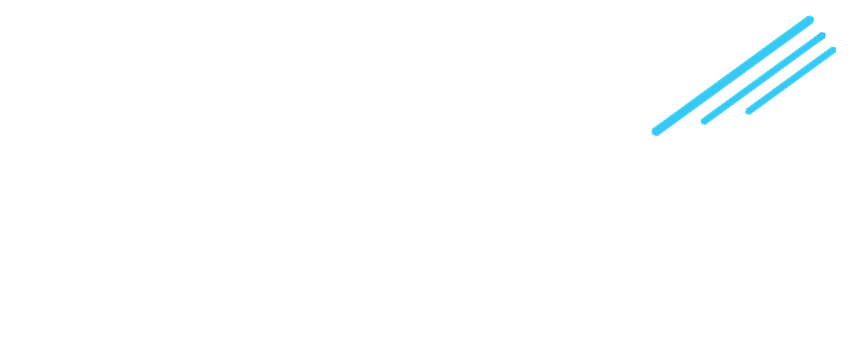
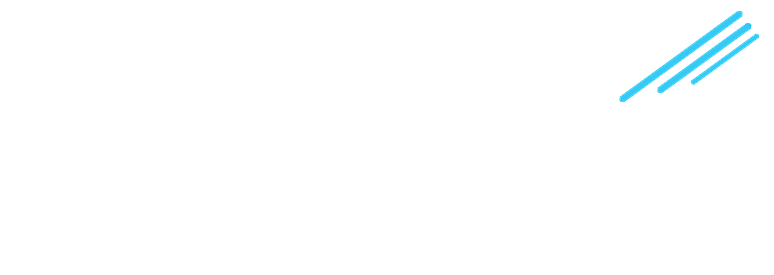
fix(chrome): tighten the wordmark crop so header type stays readable
Bring the comet closer to the A and size the mark to the nav row
(h-9) so the letters are not lost in empty vertical space.

Changed region(s): [[0.7442, 0.0291, 0.9922, 0.4073]]

diff --git a/src/components/PublicProductHeader.tsx b/src/components/PublicProductHeader.tsx
@@ -7,18 +7,56 @@ type PublicProductHeaderProps = {
   onSignIn?: () => void;
 };
 
-export function PublicProductHeader({ active, signInHref = "/signin", onSignIn }: PublicProductHeaderProps) {
+export function PublicProductHeader({
+  active,
+  signInHref = "/signin",
+  onSignIn,
+}: PublicProductHeaderProps) {
   return (
     <header className="sticky top-0 z-50 border-b border-white/[0.06] bg-[#080C11]/92 backdrop-blur-xl">
       <div className="mx-auto flex h-[64px] max-w-[1440px] items-center justify-between gap-4 px-4 sm:px-6">
-        <a href="/demo/copilot" className="flex min-w-0 items-center gap-3" aria-label="SyncAI Reliability Engineer">
-          <BrandWordmark className="h-8" />
-          <span className="hidden min-w-0 text-xs text-slate-500 sm:block">Reliability Engineer · governed industrial intelligence</span>
+        <a
+          href="/demo/copilot"
+          className="flex min-w-0 items-center gap-3"
+          aria-label="SyncAI Reliability Engineer"
+        >
+          <BrandWordmark />
+          <span className="hidden min-w-0 text-xs text-slate-500 sm:block">
+            Reliability Engineer · governed industrial intelligence
+          </span>
         </a>
-        <nav className="flex items-center gap-1 sm:gap-2" aria-label="Public navigation">
-          <a href="/demo/copilot#syncai-chat" aria-current={active === "copilot" ? "page" : undefined} className={`inline-flex h-9 items-center gap-2 rounded-lg px-3 text-xs font-semibold transition-colors sm:px-4 sm:text-sm ${active === "copilot" ? "bg-white/[0.07] text-white" : "text-slate-400 hover:bg-white/[0.04] hover:text-white"}`}><span className="hidden h-1.5 w-1.5 rounded-full bg-teal-300 sm:block" />Reliability Engineer</a>
-          <a href="/setup" aria-current={active === "proof" ? "page" : undefined} className={`inline-flex h-9 items-center gap-2 rounded-lg px-3 text-xs font-semibold transition-colors sm:px-4 sm:text-sm ${active === "proof" ? "bg-teal-400 text-slate-950" : "border border-white/[0.09] text-slate-200 hover:bg-white/[0.05]"}`}><ClipboardCheck size={15} /><span className="hidden sm:inline">Reliability Assessment</span><span className="sm:hidden">Assess</span><ArrowUpRight size={14} className="hidden sm:block" /></a>
-          <a href={signInHref} onClick={onSignIn} aria-label="Sign in" title="Sign in" className="inline-flex h-9 items-center gap-2 rounded-lg border border-white/[0.09] px-3 text-xs font-semibold text-slate-300 transition-colors hover:bg-white/[0.05] hover:text-white sm:px-4 sm:text-sm"><LogIn size={15} /><span className="hidden sm:inline">Sign in</span></a>
+        <nav
+          className="flex items-center gap-1 sm:gap-2"
+          aria-label="Public navigation"
+        >
+          <a
+            href="/demo/copilot#syncai-chat"
+            aria-current={active === "copilot" ? "page" : undefined}
+            className={`inline-flex h-9 items-center gap-2 rounded-lg px-3 text-xs font-semibold transition-colors sm:px-4 sm:text-sm ${active === "copilot" ? "bg-white/[0.07] text-white" : "text-slate-400 hover:bg-white/[0.04] hover:text-white"}`}
+          >
+            <span className="hidden h-1.5 w-1.5 rounded-full bg-teal-300 sm:block" />
+            Reliability Engineer
+          </a>
+          <a
+            href="/setup"
+            aria-current={active === "proof" ? "page" : undefined}
+            className={`inline-flex h-9 items-center gap-2 rounded-lg px-3 text-xs font-semibold transition-colors sm:px-4 sm:text-sm ${active === "proof" ? "bg-teal-400 text-slate-950" : "border border-white/[0.09] text-slate-200 hover:bg-white/[0.05]"}`}
+          >
+            <ClipboardCheck size={15} />
+            <span className="hidden sm:inline">Reliability Assessment</span>
+            <span className="sm:hidden">Assess</span>
+            <ArrowUpRight size={14} className="hidden sm:block" />
+          </a>
+          <a
+            href={signInHref}
+            onClick={onSignIn}
+            aria-label="Sign in"
+            title="Sign in"
+            className="inline-flex h-9 items-center gap-2 rounded-lg border border-white/[0.09] px-3 text-xs font-semibold text-slate-300 transition-colors hover:bg-white/[0.05] hover:text-white sm:px-4 sm:text-sm"
+          >
+            <LogIn size={15} />
+            <span className="hidden sm:inline">Sign in</span>
+          </a>
         </nav>
       </div>
     </header>

diff --git a/src/components/BrandWordmark.test.tsx b/src/components/BrandWordmark.test.tsx
@@ -24,7 +24,7 @@ describe("BrandWordmark", () => {
     const { container } = render(<BrandWordmark />);
     const img = screen.getByRole("img", { name: "SyncAI" });
     expect(img).toHaveAttribute("src", "/brand/wordmark-ink.png");
-    expect(img.className).toMatch(/\bh-7\b/);
+    expect(img.className).toMatch(/\bh-9\b/);
     expect(img.className).toMatch(/\bshrink-0\b/);
     expect(img.className).not.toMatch(/bg-|rounded-lg|shadow-/);
     expect(container.querySelector("svg")).toBeNull();

diff --git a/src/components/PublicProductHeader.test.tsx b/src/components/PublicProductHeader.test.tsx
@@ -7,7 +7,7 @@ describe("PublicProductHeader", () => {
     render(<PublicProductHeader active="copilot" />);
     const mark = screen.getByRole("img", { name: "SyncAI" });
     expect(mark).toHaveAttribute("src", "/brand/wordmark-ink.png");
-    expect(mark.className).toMatch(/\bh-8\b/);
+    expect(mark.className).toMatch(/\bh-9\b/);
     expect(screen.queryByText("SyncAI", { selector: "span" })).toBeNull();
     expect(
       screen.getByText(

diff --git a/src/components/BrandWordmark.tsx b/src/components/BrandWordmark.tsx
@@ -6,7 +6,7 @@ type BrandWordmarkProps = {
  * Header wordmark — the committed transparent PNG (white SyncAI + cyan comet).
  * Sized for the nav row. No background plate; the PNG carries its own alpha.
  */
-export function BrandWordmark({ className = "h-7" }: BrandWordmarkProps) {
+export function BrandWordmark({ className = "h-9" }: BrandWordmarkProps) {
   return (
     <img
       src="/brand/wordmark-ink.png"

diff --git a/src/components/AppShell.tsx b/src/components/AppShell.tsx
@@ -465,7 +465,7 @@ export function AppShell({ children, currentPath, onNavigate }: AppShellProps) {
       >
         {/* Logo */}
         <div className="h-14 px-3 flex flex-col justify-center border-b border-white/5 shrink-0 overflow-hidden">
-          <BrandWordmark className="h-7" />
+          <BrandWordmark />
           {!isCollapsed && (
             <motion.div
               initial={{ opacity: 0 }}
